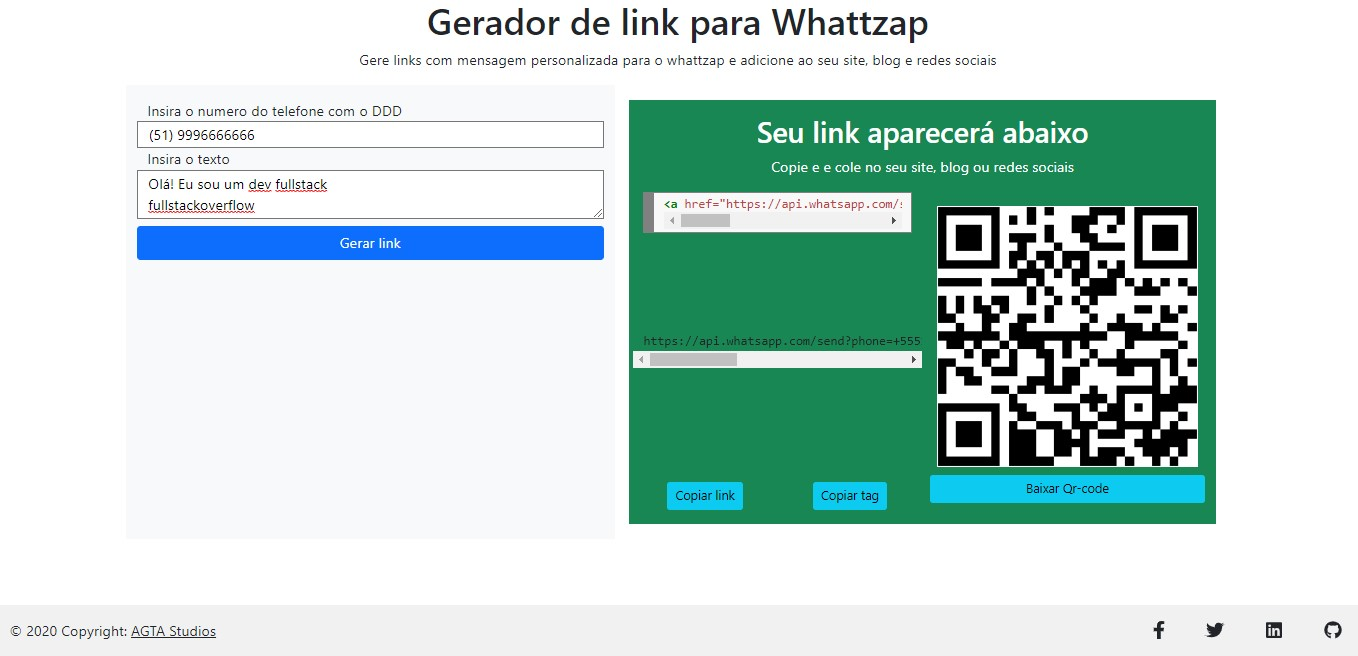
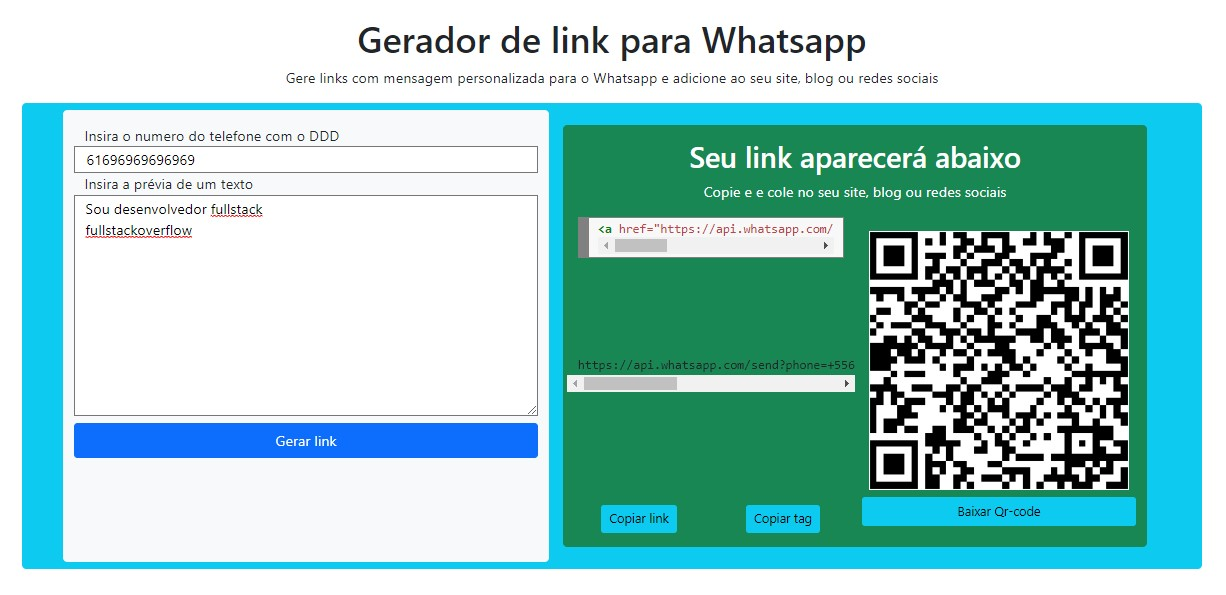
fix bugs

diff --git a/index.html b/index.html
@@ -42,8 +42,7 @@
 </style>
 </head>
 <body>
-    <main class="container text-center">
-        
+    <main class="container text-center pt-4">
         <h1>Gerador de link para Whatsapp</h1>
         <p>Gere links com mensagem personalizada para o Whatsapp e adicione ao seu site, blog ou redes sociais</p>
     </main>
@@ -68,7 +67,7 @@
           aria-label="Close"
         ></button>
       </div>
-      <div class="modal-body">
+      <div class="modal-body text-center">
         <h3>Fui util para você?</h3>
         <p>Siga minhas redes, assim você apoiará meu trabalho</p>
         <div class="cointainer-fluid">
@@ -145,30 +144,30 @@
   </div>
   </div>
 
-  <div class="container">
-
-      <div class="row gx-3 justify-content-center">
+  <div class="container " >
+      <div class="row gx-3 justify-content-center bg-info rounded-3">
+        <div class="row gx-3 p-2 justify-content-center rounded-3">
           <!-- col inputs -->
-          <div class="col-sm-5 bg-light ">
-              <div class="row p-3">
+          <div class="col-sm-5 bg-light rounded-3 ">
+              <div class="row p-3 rounded-3">
                   <label for="number">Insira o numero do telefone com o DDD</label><br>
                   <input type="text" name="number" id="number"><br>
-                  <label for="texto">Insira o texto</label><br>
-                  <textarea name="texto" id="texto"></textarea><br>
+                  <label for="texto">Insira a prévia de um texto</label><br>
+                  <textarea name="texto" id="texto" rows="10"></textarea><br>
                   <button class="btn btn-primary mt-2" id="btn">Gerar link</button>
               </div>
               
           </div>
       
           <!-- col result -->
-          <div class="col-sm-6 bg-success p-3 m-3 text-center">
+          <div class="col-sm-6 bg-success p-3 m-3 text-center rounded-3   ">
               <h2 class="text-white">Seu link aparecerá abaixo</h2>
               <p class="text-white">Copie e e cole no seu site, blog ou redes sociais</p>
-              <div class="row gy-5 justify-content-lg-center">
-                <div class="col-6 d-flex flex-column justify-content-between" id="code">
+              <div class="row gy-5 justify-content-lg-center rounded-3">
+                <div class="col-6 d-flex flex-column justify-content-between rounded-3 " id="code">
                   <!-- add dynamicly tag from  index.js -->
                 </div>
-                <div class="col-6 d-flex flex-column p-2" id="res">
+                <div class="col-6 d-flex flex-column p-2 rounded-3 " id="res">
                     <!-- add dynamicly tag from  index.js -->
                 </div>
 
@@ -177,58 +176,61 @@
           
       </div>
 
-      <footer class=" footer text-center" style="background-color: #f1f1f1;">
+      </div>
       
-        <div class="d-flex justify-content-between">
-  
-            <!-- Copyright -->
-            <div class="text-center text-dark p-3">
-            © 2020 Copyright:
-            <a class="text-dark" href="https://mdbootstrap.com/">AGTA Studios</a>
-          </div>
-          <!-- Copyright -->
-  
-          <section >
-            <!-- Facebook -->
-            <a
-              class="btn btn-link btn-floating btn-lg text-dark m-1"
-              href="https://www.facebook.com/agtastudios"
-              role="button"
-              data-mdb-ripple-color="dark"
-              ><i class="fab fa-facebook-f"></i
-            ></a>
-      
-            <!-- Twitter -->
-            <a
-              class="btn btn-link btn-floating btn-lg text-dark m-1"
-              href="https://twitter.com/agtastudios"
-              role="button"
-              data-mdb-ripple-color="dark"
-              ><i class="fab fa-twitter"></i
-            ></a>
-            <!-- Linkedin -->
-            <a
-              class="btn btn-link btn-floating btn-lg text-dark m-1"
-              href="https://www.linkedin.com/in/angelo-gabriel-tavares-abrita/"
-              role="button"
-              data-mdb-ripple-color="dark"
-              ><i class="fab fa-linkedin"></i
-            ></a>
-            <!-- Github -->
-            <a
-              class="btn btn-link btn-floating btn-lg text-dark m-1"
-              href="https://github.com/Angeloabrita"
-              role="button"
-              data-mdb-ripple-color="dark"
-              ><i class="fab fa-github"></i
-            ></a>
-          </section>
-  
-        </div>
-          
-      </footer>
-  </div>
 
+      
+  </div>
+  <footer class=" footer text-center" style="background-color: #f1f1f1;">
+      
+    <div class="d-flex justify-content-between">
+
+        <!-- Copyright -->
+        <div class="text-center text-dark p-3">
+        © 2020 Copyright:
+        <a class="text-dark" href="https://www.facebook.com/agtastudios">AGTA Studios</a>
+      </div>
+      <!-- Copyright -->
+
+      <section >
+        <!-- Facebook -->
+        <a
+          class="btn btn-link btn-floating btn-lg text-dark m-1"
+          href="https://www.facebook.com/agtastudios"
+          role="button"
+          data-mdb-ripple-color="dark"
+          ><i class="fab fa-facebook-f"></i
+        ></a>
+  
+        <!-- Twitter -->
+        <a
+          class="btn btn-link btn-floating btn-lg text-dark m-1"
+          href="https://twitter.com/agtastudios"
+          role="button"
+          data-mdb-ripple-color="dark"
+          ><i class="fab fa-twitter"></i
+        ></a>
+        <!-- Linkedin -->
+        <a
+          class="btn btn-link btn-floating btn-lg text-dark m-1"
+          href="https://www.linkedin.com/in/angelo-gabriel-tavares-abrita/"
+          role="button"
+          data-mdb-ripple-color="dark"
+          ><i class="fab fa-linkedin"></i
+        ></a>
+        <!-- Github -->
+        <a
+          class="btn btn-link btn-floating btn-lg text-dark m-1"
+          href="https://github.com/Angeloabrita"
+          role="button"
+          data-mdb-ripple-color="dark"
+          ><i class="fab fa-github"></i
+        ></a>
+      </section>
+
+    </div>
+      
+  </footer>
     
    
     <link href="https://cdn.jsdelivr.net/npm/bootstrap@5.0.2/dist/css/bootstrap.min.css" rel="stylesheet" integrity="sha384-EVSTQN3/azprG1Anm3QDgpJLIm9Nao0Yz1ztcQTwFspd3yD65VohhpuuCOmLASjC" crossorigin="anonymous">

diff --git a/index.js b/index.js
@@ -44,8 +44,22 @@ function copyEvent(id)
         document.execCommand("Copy")
     }
 
-
-
+//convert to base64qrcode this fix donwload bug
+async function getBase64FromUrl(url) {
+    const data = await fetch(url);
+    const blob = await data.blob();
+    return new Promise((resolve) => {
+      const reader = new FileReader();
+      reader.readAsDataURL(blob); 
+      reader.onloadend = () => {
+        const base64data = reader.result;   
+        resolve(base64data);
+      }
+    });
+  }
+  getBase64FromUrl('http://api.qrserver.com/v1/create-qr-code/?data=HelloWorld!&size=100x100').then((res)=>{
+  console.log(res);    
+  return res});
   //event btn generate link
 document.getElementById('btn').addEventListener('click', function(){
     
@@ -102,17 +116,26 @@ document.getElementById('btn').addEventListener('click', function(){
     btnCopy3.setAttribute('id', 'download');
     btnCopy3.setAttribute('role', 'buttom')
     btnCopy3.download = 'qrcode';
-    btnCopy3.setAttribute('href',`http://api.qrserver.com/v1/create-qr-code/?data=${uriLink(numberValidation(number),encodeText(text))}&size=100x100.png`)
+    //push data64 to link for download
+    getBase64FromUrl(`http://api.qrserver.com/v1/create-qr-code/?data=${uriLink(numberValidation(number)+encodeText(text))}&size=100x100.png`).then((res)=>{
+        btnCopy3.setAttribute('href',res);
+    });
+    
     //add evento to btn
     
     btnCopy3.addEventListener('click', function(){
-        alert('Baixado', link);
+        
+        modalHeader.innerHTML='Imagem baixada!'
+        myModal.show();
     });
 
     //create element qrcod img
     let qr_img = document.createElement('img');
     qr_img.classList.add('img-fluid','p-2');
-    qr_img.setAttribute('src', `http://api.qrserver.com/v1/create-qr-code/?data=${uriLink(numberValidation(number),encodeText(text))}&size=100x100.png`);
+    getBase64FromUrl(`http://api.qrserver.com/v1/create-qr-code/?data=${uriLink(numberValidation(number) + encodeText(text))}&size=100x100.png`).then((res)=>{
+        qr_img.setAttribute('src', res);
+    });
+    
     qr_img.setAttribute('id','qcode')
 
     code2[0].appendChild(btnCopy);
@@ -125,38 +148,10 @@ document.getElementById('btn').addEventListener('click', function(){
 
 })
 
-// function shorUrl(url) {
-//     let request = new Request('https://is.gd/create.php?format=simple&url='+encodeURI(url));
-//     return fetch(request, {
-//         method: 'POST',
-       
-//         headers: {
-//             //'Access-Control-Allow-Origin': '*',
-//             'Content-Type': 'text/html',
-//             // 'Access-Control-Request-Method': 'POST',
-//             // 'Access-Control-Allow-Headers': 'Content-Type',
-//             // 'Access-Control-Allow-Credentials': 'true'
-//         }
-      
-//         // body: JSON.stringify()
-//     }).then(function (response) {
-//         console.log(response);
-//         return response.text();
-//     }).then(function (data) {
-//         console.log(data);
-
-//         return data;
-//     }).catch(function (error) {
-//         console.log(error);
-//     });
-    
-
-    
-    
-// }
 
 //shorUrl('https://www.google.com.br');
 
-
+//REFERENCES FOR LEARNING
+//https://stackoverflow.com/questions/22172604/convert-image-from-url-to-base64
 //https://velhobit.com.br/desenvolvimento/api-do-whatsapp-como-quebrar-linhas-e-passar-parametros-em-links.html
 //https://pt.stackoverflow.com/questions/491477/como-estilizar-texto-dentro-da-tag-code
